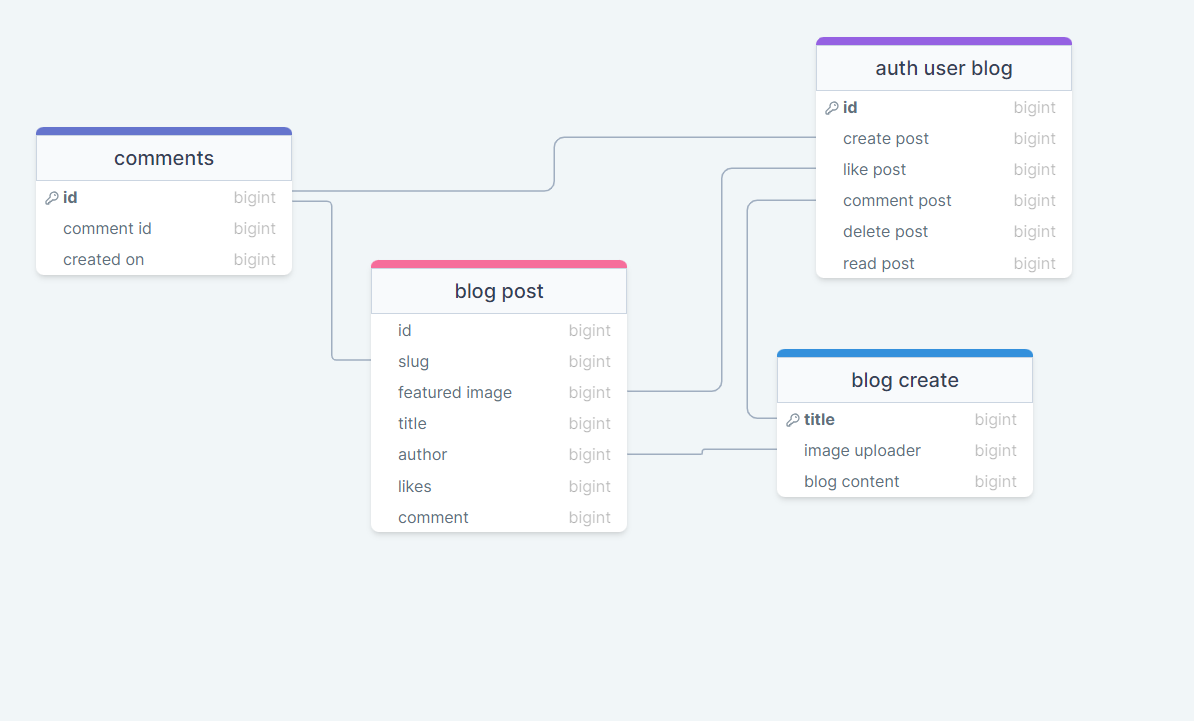
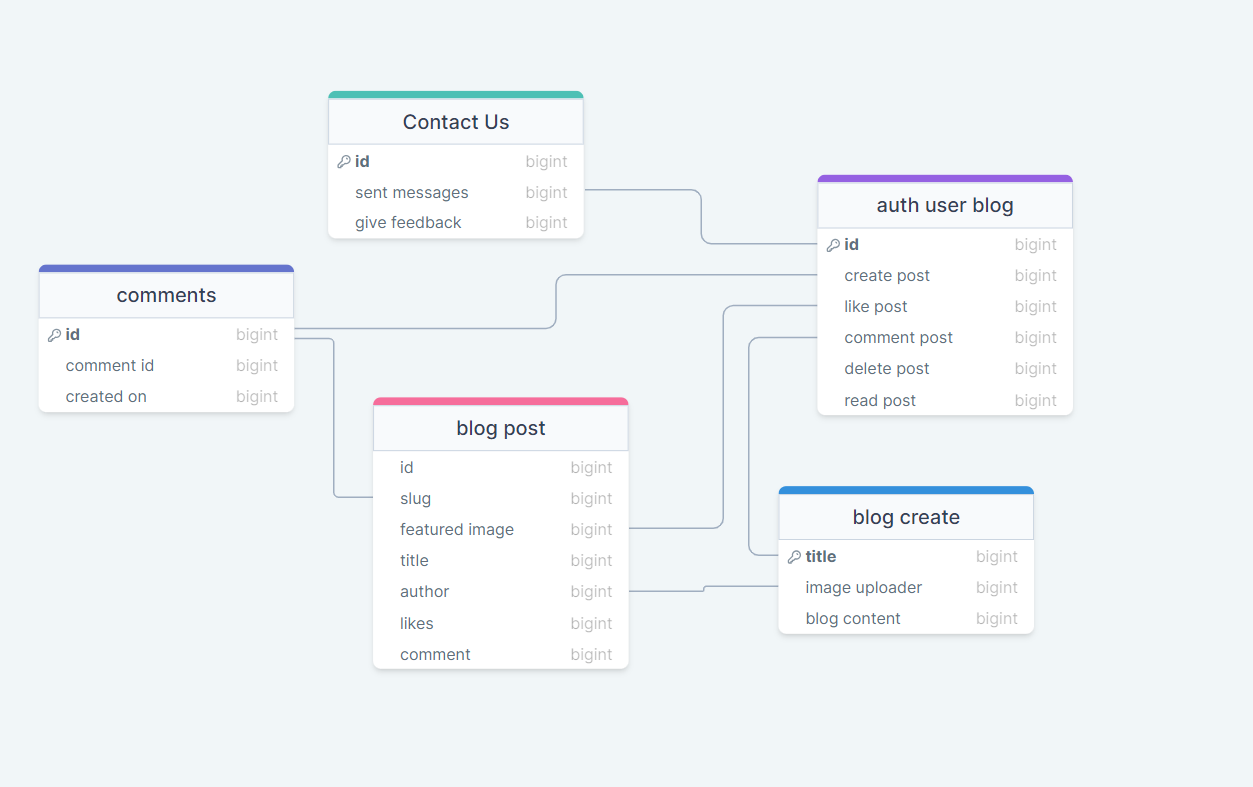
edited issues and added images in READme

diff --git a/templates/index.html b/templates/index.html
@@ -15,27 +15,7 @@
                 <img class="card-img-top" src="https://res.cloudinary.com/dpo8kigkj/image/upload/v1699008222/watchservice_jjz2rh.png" />
                 {% else %}
                 <img class="card-img-top" src=" {{ post.featured_image.url }}" />
-                {% endif %}
-
-                <!-- {% if "placeholder" in post.featured_image.url %}
-                <img
-                  class="card-img-top"
-                  src="https://res.cloudinary.com/dpo8kigkj/image/upload/v1699008222/watchservice_jjz2rh.png"
-                />
-                {% endif %}
-                {% if post.featured_image %}
-                <img src="{{ post.featured_image.url }}" alt="Image Post" class="card-img">
-                {% endif %}
-                
-                {% if post.videopost %}
-                <div class="embed-responsive embed-responsive-16by9">
-                    <video class="embed-responsive-item" controls>
-                        <source src="{{ post.videopost.video.url }}" type="video/mp4">
-                        Your browser does not support the video tag.
-                    </video>
-                </div>
-                {% endif %} -->
-                
+                {% endif %}                
               </div>
               <a href="{% url 'post_detail' post.slug  %}" class="post-link">
                 <!-- post slug : {{ post.slug }} -->

diff --git a/README.md b/README.md
@@ -98,6 +98,20 @@ For authenticated users it links to:
 - [Django](https://www.djangoproject.com/)
 
 
+## Django
+<details>
+<summary>Post Image from Djanjo Admin</summary>
+
+![Post image](documentation/testing/postdjanjo.png)
+</details>
+
+<details>
+<summary>Contact Image from Djanjo Admin </summary>
+
+![Post image](documentation/testing/contactdjanjo.png)
+</details>
+
+
 ## Testing
 
 <details>
@@ -264,7 +278,25 @@ The website was deployed to [Heroku](https://heroku.com/) by following these ste
 ## Issues
 
 - SummerNote wasn't connecting because of Django clickjacking [Link](https://developer.mozilla.org/en-US/docs/Web/HTTP/Headers/X-Frame-Options).
-- Tried to have a Conyact Us page on the site, but the was an issue with Elephant sql and a corrupt database.
+- I tried to have a Contact Us page on the site, early on in the project but I ran into a problem after trying to run python3 migrate in the terminal. <mark>Images below in Error Images wblog_contact </mark>. There was an issue saying that there was no contact Us and that it doesn't exist. After contacting tutor assistance I was told that the datadase was corrupted and that if it was to be fixed I would lose everthing that I had done. I decided not to go ahead and deleted everything and start the project again.
+<details>
+<summary>Error Images wblog_contact</summary>
+
+![Watch on wrist image](documentation/contactwblogerror.png)
+![Watch on wrist image](documentation/contactwblog.png)
+ </details>
+
+- 
+
+<details>
+<summary>Error Images wblog_contact</summary>
+
+![Watch on wrist image](documentation/videowblog.png)
+ </details>
+
+
+
+
 
 ## Technologies Used
 
